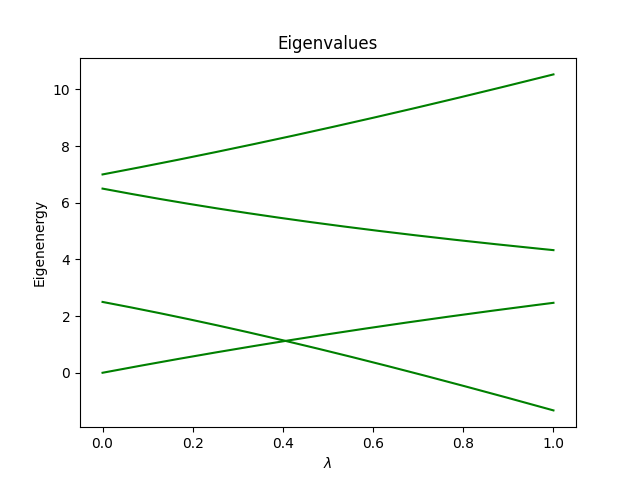
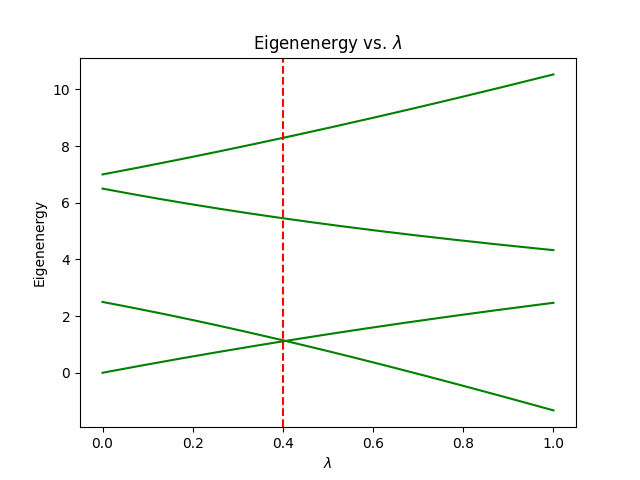
updated plots problem d

Changed region(s): [[0.375, 0.0625, 0.625, 0.125]]

diff --git a/problem_d.py b/problem_d.py
@@ -59,6 +59,7 @@ for n, lmbda in enumerate(lambdas):
 
 for i in range(4):
     plt.plot(lambdas, eigvals[i, :], c="g")
+plt.axvline(x=0.4, color='r', linestyle='--', label=r"$\lambda = \frac{2}{3}$")
 
 
 entropies = []
@@ -66,8 +67,7 @@ for n in range(n_lambda_values):
     S = entanglement_entropy(ground_states[:, n])
     entropies.append(S)
 
-
-plt.title("Eigenvalues")
+plt.title("Eigenenergy vs. $\lambda$")
 plt.ylabel("Eigenenergy")
 plt.xlabel(r"$\lambda$")
 plt.savefig("images/problem_d_eigenvalues.png")
@@ -78,6 +78,7 @@ plt.title("Entanglement Entropy")
 plt.xlabel(r"$\lambda$")
 plt.ylabel("Entropy")
 plt.plot(lambdas, entropies)
+plt.axvline(x=0.4, color='r', linestyle='--', label=r"$\lambda = \frac{2}{3}$")
 plt.savefig("images/problem_d_entropy.png")
 plt.show()
 
